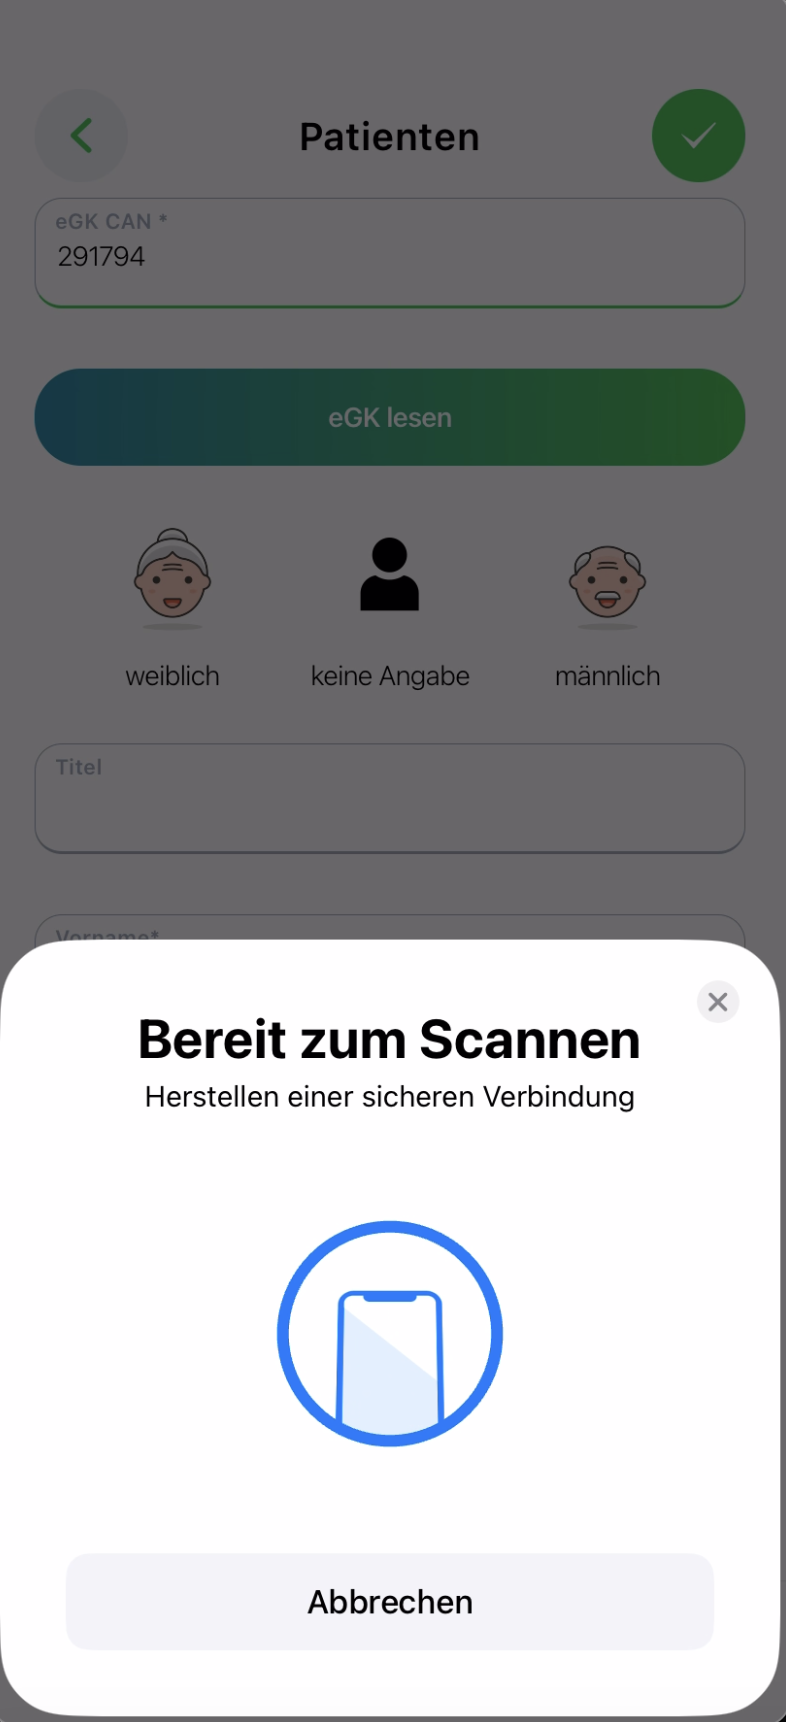
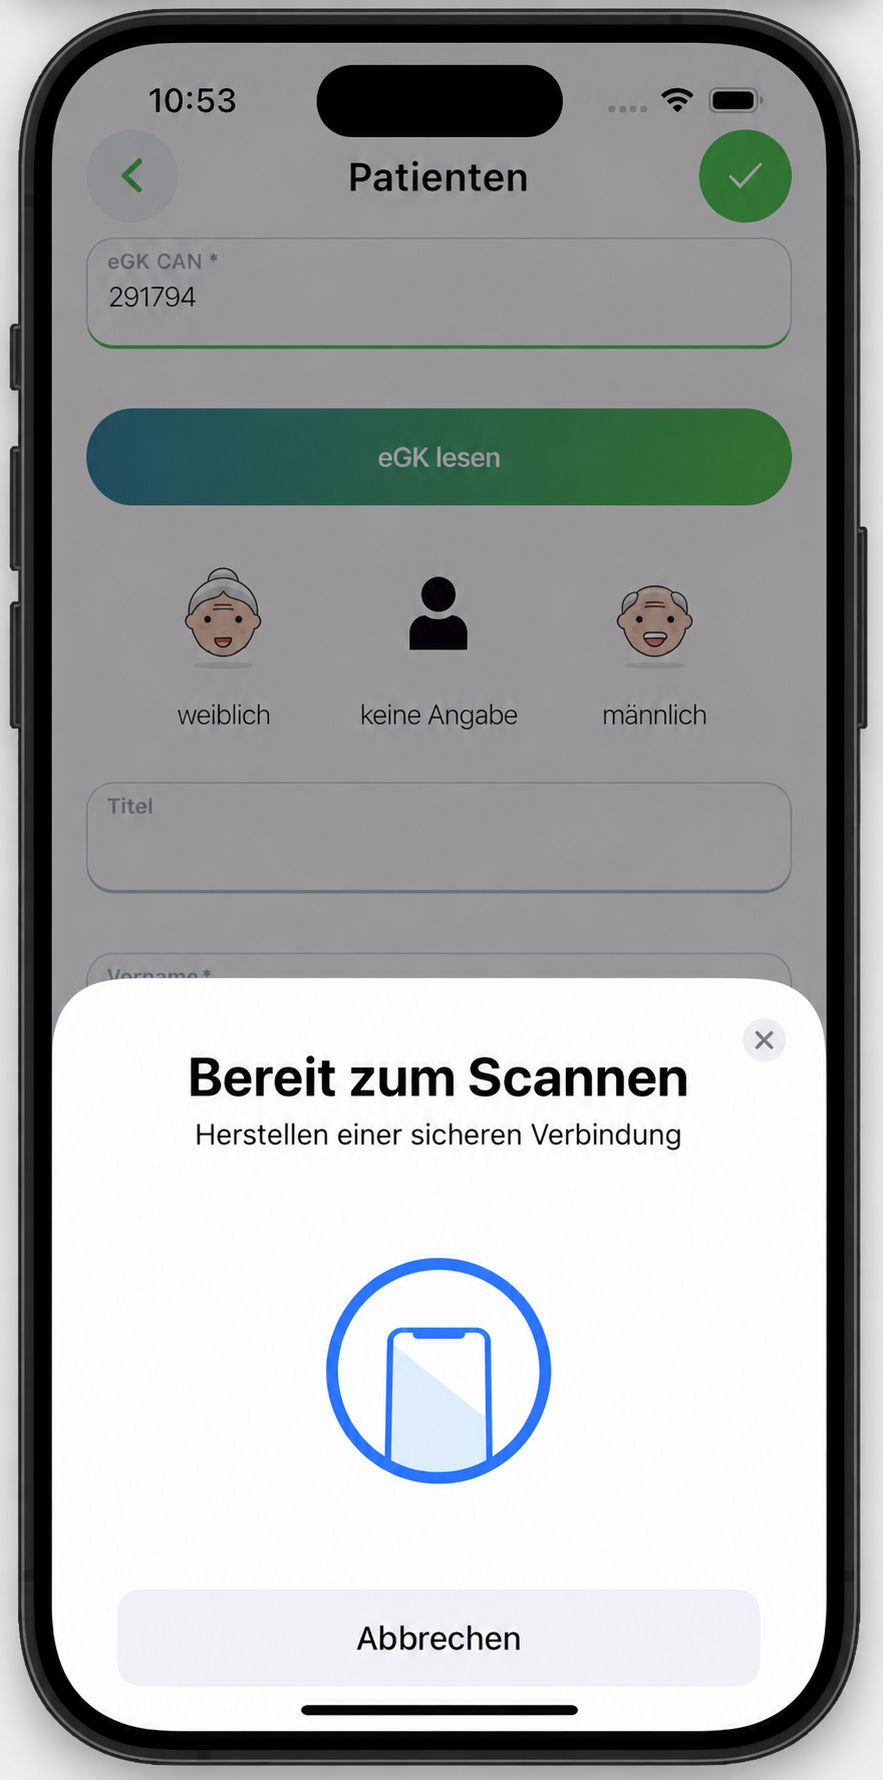
update sciendis content

diff --git a/src/pages/projects/project-data.ts b/src/pages/projects/project-data.ts
@@ -52,6 +52,8 @@ import sciendisMobileApp from "../../images/sciendis-mobile-app.mov";
 import sciendisMobileDashboard from "../../images/sciendis-mobile-app1.png";
 import sciendisMobilePatient from "../../images/sciendis-mobile-app2.png";
 import sciendisMobileWound from "../../images/sciendis-mobile-app3.png";
+import sciendisCardLinkConnect from "../../images/sciendis-cardlink1.png";
+import sciendisCardLinkCart from "../../images/sciendis-cardlink2.png";
 
 export interface ProjectCardData {
   key: string;
@@ -61,6 +63,7 @@ export interface ProjectCardData {
   role: string;
   technologies: string[];
   image?: string;
+  imageDisplay?: "cover" | "contain";
   visualWords?: string[];
   featured: boolean;
 }
@@ -106,15 +109,23 @@ export const projects: ProjectCardData[] = [
     title: "WUNDERA Healthcare Platform",
     context: "Web · Mobile · White label · sciendis",
     summary:
-      "Compatible WUNDERA® web and mobile products forming the foundation for white-label healthcare solutions, including native eGK workflows.",
+      "Compatible WUNDERA® web and mobile products supported by privately versioned packages shared across white-label healthcare applications.",
     role: "Senior Frontend Developer · Frontend Team Lead",
-    technologies: ["TypeScript", "React", "React Native", "Expo", "SQLite", "Vite"],
+    technologies: [
+      "TypeScript",
+      "React",
+      "React Native",
+      "Expo",
+      "SQLite",
+      "Vite",
+      "Next.js",
+    ],
     image: sciendisWebAppDashboard,
     featured: true,
   },
   {
     key: "sciendisEgk",
-    title: "Expo FHC NFC Module",
+    title: "Expo NFC Module",
     context: "WUNDERA native integration · sciendis",
     summary:
       "A native module integrated into WUNDERA Mobile for securely reading German electronic health cards through Swift and Kotlin.",
@@ -127,8 +138,10 @@ export const projects: ProjectCardData[] = [
       "NFC",
       "PACE",
       "Cryptography",
+      "OpenHealthCardKit",
     ],
-    visualWords: ["Read", "Secure", "Connect"],
+    image: sciendisNfcScan,
+    imageDisplay: "contain",
     featured: true,
   },
   {
@@ -136,10 +149,18 @@ export const projects: ProjectCardData[] = [
     title: "Online Pharmacy & CardLink",
     context: "Independent pharmacy app · sciendis",
     summary:
-      "An independent Expo pharmacy app with a local native CardLink module built directly as part of the application codebase.",
+      "An independent Expo pharmacy app with a local native CardLink module built and released with the application.",
     role: "Technical Project Owner · Mobile Developer",
-    technologies: ["Expo Modules", "React Native", "WebView", "Swift", "Android", "FHIR"],
-    visualWords: ["Web", "Native", "eRx"],
+    technologies: [
+      "Expo Modules",
+      "React Native",
+      "WebView",
+      "Swift",
+      "Android",
+      "FHIR",
+    ],
+    image: sciendisCardLinkCart,
+    imageDisplay: "contain",
     featured: true,
   },
   {
@@ -215,7 +236,7 @@ export const experience: ExperienceData[] = [
       "My biggest professional milestone so far: leading frontend delivery across sciendis’ own healthcare products and customer-specific white-label solutions while remaining hands-on in architecture, web, mobile and native development.",
     highlights: [
       "Led frontend architecture, planning, reviews and mentoring across healthcare web and mobile products",
-      "Built a shared TypeScript platform for WUNDERA®, Wundumsorglos® and white-label customer solutions",
+      "Built and privately published versioned TypeScript packages consumed by WUNDERA®, Wundumsorglos® and white-label applications",
       "Owned native Gematik integrations spanning eGK NFC, PACE and CardLink from concept to production",
     ],
   },
@@ -283,10 +304,15 @@ export const data: Record<string, ProjectDetailData> = {
     vidTitle: ["WUNDERA mobile healthcare workflows"],
     cardTitle: "WUNDERA Healthcare Platform",
     cardText:
-      "Sciendis develops WUNDERA® as compatible web and mobile applications for patient, wound-care, staffing, order and supply workflows. WUNDERA also provided the product foundation for individually branded white-label solutions, while Wundumsorglos® and other customer applications reused parts of the same shared platform.",
+      "Sciendis develops WUNDERA® as compatible web and mobile applications for patient, wound-care, staffing, order and supply workflows. Individually maintained WUNDERA and white-label applications consumed versioned packages from a shared internal platform, while retaining their own branding, workflows and release cycles.",
     period: "2024–2026",
     role: "Frontend Team Lead · Architecture Owner",
-    focus: ["Web and mobile", "White-label platform", "Frontend architecture", "Synchronization"],
+    focus: [
+      "Web and mobile",
+      "White-label platform",
+      "Frontend architecture",
+      "Synchronization",
+    ],
     stack: [
       "TypeScript",
       "React",
@@ -301,19 +327,24 @@ export const data: Record<string, ProjectDetailData> = {
     sections: [
       {
         eyebrow: "Challenge",
-        title: "One product foundation, multiple branded solutions",
-        body: "WUNDERA’s web and mobile applications formed the basis for individually branded white-label products. The variants shared healthcare workflows, interface components, data-access patterns and CMS integrations, but still needed room for customer-specific behavior and presentation.",
+        title: "Shared capabilities across independent products",
+        body: "WUNDERA’s web and mobile applications, individually branded white-label products and other healthcare solutions needed many of the same interface components, data-access patterns and CMS integrations. Maintaining separate implementations across their product codebases would have created duplication and inconsistent behavior.",
       },
       {
         eyebrow: "Approach",
-        title: "A shared TypeScript platform",
-        body: "I established an internal monorepo with shared React and React Native component libraries, Kysely-based SQLite repositories and a reusable REST integration for Strapi. Product teams could build on consistent foundations while retaining customer-specific customization.",
+        title: "Versioned packages from a dedicated monorepo",
+        body: "I established a dedicated TypeScript monorepo containing reusable React and React Native component libraries, Kysely-based SQLite repositories and a generic REST integration for Strapi. The packages were versioned and published privately within the company’s npm organization, then installed as dependencies in independently maintained web, mobile and white-label applications.",
         points: [
-          "Defined central frontend architecture and technical standards",
-          "Standardized repository and read/write operations",
-          "Led planning, reviews and mentoring across the frontend team",
-          "Supported releases, production issues and technical client communication",
+          "Shared improvements could be released and adopted centrally through explicit package versions",
+          "Each consuming application retained its product-specific branding, workflows and release cycle",
+          "Standardized repository, read/write and API integration patterns across products",
+          "Defined technical standards and supported package adoption across product teams",
         ],
+      },
+      {
+        eyebrow: "My responsibility",
+        title: "Architecture ownership and adoption",
+        body: "I owned the architecture of the shared frontend platform, designed central packages and technical standards, and supported their adoption across the company’s web, mobile and customer-specific applications. I combined this hands-on work with planning, reviews, mentoring, release support and technical client communication.",
       },
       {
         eyebrow: "Web and mobile",
@@ -328,7 +359,7 @@ export const data: Record<string, ProjectDetailData> = {
       {
         eyebrow: "Native extension",
         title: "Integrating electronic health-card workflows",
-        body: "The WUNDERA mobile application also integrated the Expo FHC NFC module I developed. It allowed patient information to be read securely from German electronic health cards and transferred into WUNDERA’s patient and wound-care workflows.",
+        body: "The WUNDERA mobile application also integrated the Expo NFC module I developed. It allowed patient information to be read securely from German electronic health cards and transferred into WUNDERA’s patient and wound-care workflows.",
       },
     ],
   },
@@ -343,7 +374,7 @@ export const data: Record<string, ProjectDetailData> = {
     vidTitle: [
       "Integrating the cross-platform Expo NFC module into the healthcare application",
     ],
-    cardTitle: "Expo FHC NFC Module",
+    cardTitle: "Expo NFC Module",
     cardText:
       "Integrated into the WUNDERA mobile application, the module replaces manual patient-data entry by reading German electronic health cards securely and making validated data available to patient and wound-care workflows.",
     period: "2024–2026",
@@ -371,7 +402,13 @@ export const data: Record<string, ProjectDetailData> = {
     ],
   },
   sciendisCardlink: {
+    mobileImgs: [sciendisCardLinkConnect, sciendisCardLinkCart],
+    mobileImgTitle: [
+      "CardLink contact details and connection workflow",
+      "Electronic prescription transferred into the pharmacy cart",
+    ],
     mobileVids: [sciendisPharmacyCardLink],
+    poster: [sciendisCardLinkConnect],
     vidTitle: ["Retrieving an electronic prescription through CardLink"],
     cardTitle: "Online Pharmacy & CardLink",
     cardText:

diff --git a/src/App.css b/src/App.css
@@ -298,7 +298,35 @@ textarea:focus-visible {
 }
 .featured-projects {
   display: grid;
-  gap: clamp(2.5rem, 7vw, 6rem);
+  gap: clamp(1.75rem, 4vw, 3.5rem);
+}
+.featured-projects .project-card {
+  height: 500px;
+  min-height: 0;
+  max-height: 500px;
+}
+.featured-projects .project-card > img,
+.featured-projects .healthcare-visual {
+  min-height: 0;
+}
+.featured-projects .project-copy {
+  min-height: 0;
+  padding: clamp(1.5rem, 3vw, 2.25rem);
+}
+.featured-projects .project-copy > p:not(.eyebrow):not(.project-role) {
+  margin-bottom: 0.75rem;
+  font-size: 0.95rem;
+  line-height: 1.55;
+}
+.featured-projects .project-copy h3 {
+  margin-bottom: 0.75rem;
+}
+.featured-projects .project-role {
+  margin: 0.25rem 0 1rem;
+  font-size: 0.9rem;
+}
+.featured-projects .tag-list {
+  margin-bottom: 1.25rem;
 }
 .project-card {
   position: relative;
@@ -315,6 +343,11 @@ textarea:focus-visible {
   height: 100%;
   min-height: 420px;
   object-fit: cover;
+}
+.project-card > img.project-card-image-contain {
+  padding: clamp(1.5rem, 4vw, 3rem);
+  object-fit: contain;
+  background: #ece9e2;
 }
 .project-card:nth-child(even) > img {
   order: 2;
@@ -348,6 +381,10 @@ textarea:focus-visible {
   background: var(--ink);
   color: #fff;
   font: 0.7rem var(--mono);
+}
+.featured-projects .project-card:nth-child(even) .project-number {
+  right: 1rem;
+  left: auto;
 }
 .tag-list {
   display: flex;
@@ -674,6 +711,14 @@ textarea:focus-visible {
   color: var(--muted);
 }
 @media (max-width: 900px) {
+  .featured-projects .project-card:nth-child(even) .project-number {
+    right: auto;
+    left: 1rem;
+  }
+  .featured-projects .project-card {
+    height: auto;
+    max-height: none;
+  }
   .project-card {
     grid-template-columns: 1fr;
   }
@@ -846,35 +891,35 @@ textarea:focus-visible {
   background: var(--paper);
 }
 .case-hero {
-  padding: clamp(3.5rem, 7vw, 6.5rem) 0;
+  padding: clamp(3rem, 5.5vw, 5rem) 0;
   background: var(--ink);
   color: #fff;
 }
 .case-hero h1 {
-  max-width: 950px;
+  max-width: 800px;
   margin: 0;
-  font-size: clamp(3.2rem, 8vw, 7rem);
-  line-height: 0.92;
-  letter-spacing: -0.055em;
+  font-size: clamp(2.5rem, 5.5vw, 4.8rem);
+  line-height: 0.98;
+  letter-spacing: -0.045em;
 }
 .case-meta {
   display: grid;
   grid-template-columns: 1.2fr 1.35fr 1.8fr 0.55fr;
   gap: 0;
-  margin: clamp(2.5rem, 5vw, 4rem) 0 0;
+  margin: clamp(2rem, 4vw, 3rem) 0 0;
   border-top: 1px solid rgba(255, 255, 255, 0.18);
   border-bottom: 1px solid rgba(255, 255, 255, 0.18);
 }
 .case-meta > div {
   min-width: 0;
-  padding: 1.25rem 1.25rem 1.25rem 0;
+  padding: 1rem 1rem 1rem 0;
 }
 .case-meta > div + div {
-  padding-left: 1.25rem;
+  padding-left: 1rem;
   border-left: 1px solid rgba(255, 255, 255, 0.18);
 }
 .case-meta dt {
-  margin-bottom: 0.55rem;
+  margin-bottom: 0.4rem;
   color: var(--green);
   font: 500 0.66rem var(--mono);
   letter-spacing: 0.1em;
@@ -888,7 +933,7 @@ textarea:focus-visible {
 }
 .case-summary {
   display: block;
-  margin-top: clamp(2rem, 4vw, 3rem);
+  margin-top: clamp(1.5rem, 3vw, 2.25rem);
 }
 .case-hero-inner > .case-summary:first-of-type {
   padding-top: 2rem;
@@ -901,11 +946,11 @@ textarea:focus-visible {
   align-items: start;
 }
 .case-summary > p {
-  max-width: 1000px;
+  max-width: 900px;
   margin: 0;
   color: rgba(255, 255, 255, 0.7);
-  font-size: clamp(1rem, 1.8vw, 1.2rem);
-  line-height: 1.8;
+  font-size: clamp(0.98rem, 1.5vw, 1.1rem);
+  line-height: 1.7;
 }
 .case-summary a {
   color: var(--green);
@@ -920,13 +965,13 @@ textarea:focus-visible {
   color: var(--ink);
 }
 .case-story {
-  padding-top: clamp(4rem, 8vw, 8rem);
+  padding-top: clamp(3rem, 5vw, 5rem);
 }
 .case-story-section {
   display: grid;
-  grid-template-columns: minmax(260px, 0.75fr) minmax(0, 1.25fr);
-  gap: clamp(2.5rem, 8vw, 8rem);
-  padding: clamp(3rem, 6vw, 5.5rem) 0;
+  grid-template-columns: minmax(230px, 0.62fr) minmax(0, 1.38fr);
+  gap: clamp(2rem, 5vw, 5rem);
+  padding: clamp(2.5rem, 4.5vw, 4rem) 0;
   border-top: 1px solid var(--line);
 }
 .case-story-heading {
@@ -936,24 +981,28 @@ textarea:focus-visible {
 }
 .case-story-heading h2 {
   max-width: 520px;
-  font-size: clamp(2rem, 4vw, 3.8rem);
-  line-height: 1;
+  font-size: clamp(1.9rem, 3.35vw, 3.15rem);
+  line-height: 1.02;
+}
+.case-story-heading .eyebrow {
+  margin-bottom: 0.6rem;
+  font-size: 0.68rem;
 }
 .case-story-copy > p {
-  margin-bottom: 1.75rem;
+  margin-bottom: 1.4rem;
   color: var(--muted);
-  font-size: clamp(1rem, 1.5vw, 1.15rem);
+  font-size: clamp(0.96rem, 1.25vw, 1.08rem);
 }
 .case-story-copy ul {
   display: grid;
-  gap: 0.8rem;
+  gap: 0.55rem;
   margin: 0;
   padding: 0;
   list-style: none;
 }
 .case-story-copy li {
   position: relative;
-  padding: 0.8rem 0 0.8rem 1.5rem;
+  padding: 0.65rem 0 0.65rem 1.4rem;
   border-top: 1px solid var(--line);
   line-height: 1.55;
 }
@@ -967,9 +1016,9 @@ textarea:focus-visible {
 .case-media {
   display: flex;
   flex-direction: column;
-  gap: clamp(2rem, 5vw, 4rem);
-  padding-top: clamp(3rem, 6vw, 5rem);
-  padding-bottom: clamp(4rem, 9vw, 9rem);
+  gap: clamp(1.5rem, 3.5vw, 3rem);
+  padding-top: clamp(2.5rem, 4vw, 4rem);
+  padding-bottom: clamp(3.5rem, 6vw, 6rem);
 }
 .case-image-grid,
 .case-video-grid {

diff --git a/src/pages/projects/Projects.tsx b/src/pages/projects/Projects.tsx
@@ -10,7 +10,7 @@ function Projects() {
     const renderProject = (project: ProjectCardData, index: number) => (
         <article className={`project-card ${!project.image ? 'project-card-text' : ''}`} key={project.key}>
             <div className="project-number">0{index + 1}</div>
-            {project.image ? <img src={project.image} alt="" loading="lazy"/> : <div className="healthcare-visual" aria-hidden="true">{(project.visualWords ?? ['Care', 'Code', 'Connect']).map((word) => <span key={word}>{word}</span>)}</div>}
+            {project.image ? <img className={project.imageDisplay === 'contain' ? 'project-card-image-contain' : undefined} src={project.image} alt="" loading="lazy"/> : <div className="healthcare-visual" aria-hidden="true">{(project.visualWords ?? ['Care', 'Code', 'Connect']).map((word) => <span key={word}>{word}</span>)}</div>}
             <div className="project-copy">
                 <p className="eyebrow">{project.context}</p>
                 <h3>{project.title}</h3>
